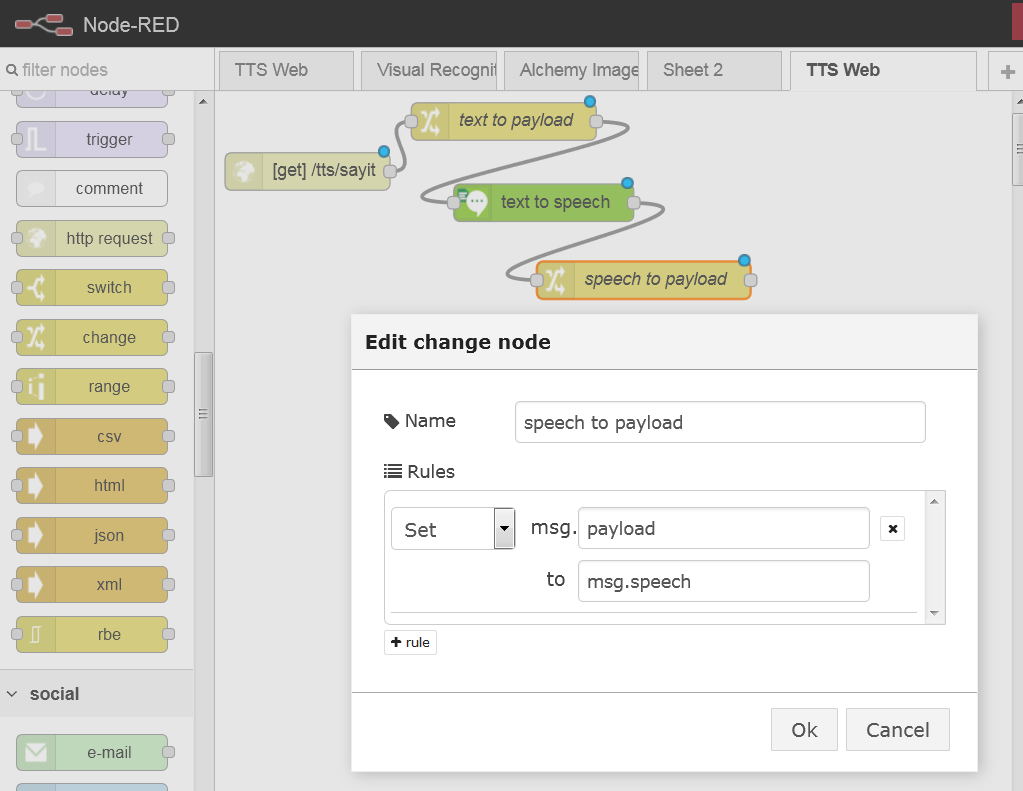
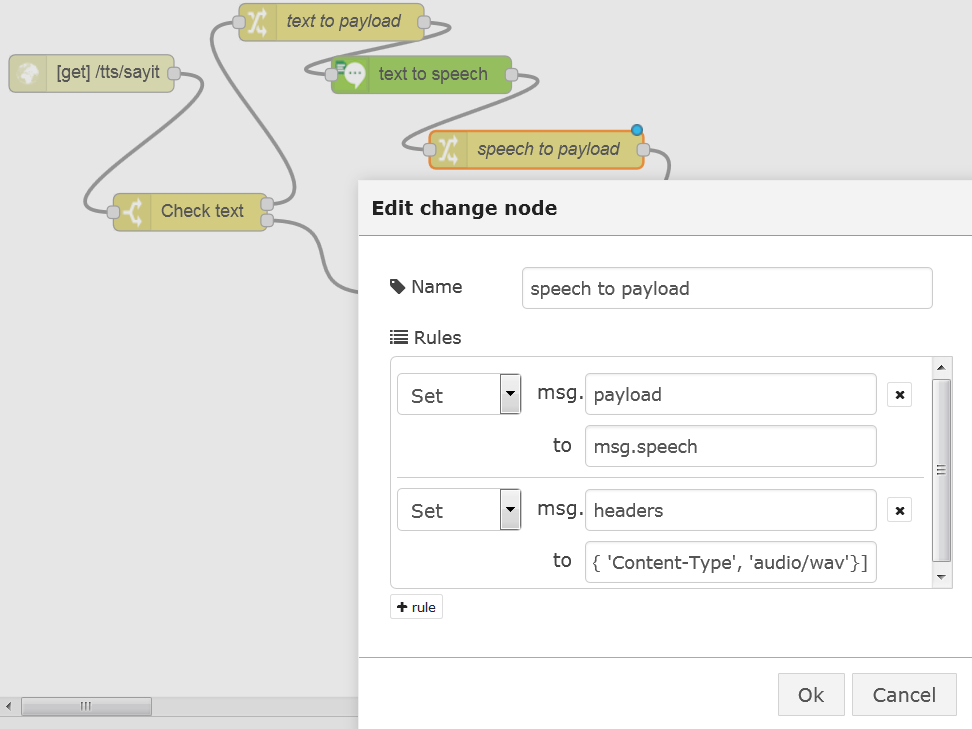
Moved HTTP header setting in main part of lab

diff --git a/README.md b/README.md
@@ -74,7 +74,7 @@ We do this because the TTS node uses the text in the `msg.payload` as input.
 ![TTS Lab 1 ScreenShot 3](images/TTS/TTS-Lab-3.png)
 
 The properties of the TTS node will let you select the Language and Voice to use.
-5. Add another ![`change`](images/node-red/change.png) node to extract the `msg.speech` and place it in `msg.payload`.
+5. Add another ![`change`](images/node-red/change.png) node to extract the `msg.speech` and place it in `msg.payload`. We will also set the `HTTP response headers` by setting the `msg.headers` to the literal string value `[{ 'Content-Type', 'audio/wav'}]`. This is required in order to let browsers know that this is an audio file and not HTML.
 ![TTS Lab 1 ScreenShot 4](images/TTS/TTS-Lab-4.png)
 6. Finally, add a  ![`HTTP Response`](images/node-red/HTTPResponse.png) node. This node will simply return what's in the payload to the HTTP response.
 The completed flow should look like:
@@ -92,19 +92,17 @@ _Now try the flow:_
 Depending on how your browser is configured, it may save it automatically or prompt for a name and location. In any case, store or rename it with the `.wav` extension on your local file system. 
 * Then locate that file from windows explorer and open it with Windows Media Player, turn your you should
 
-### TTS Flow - enhancements
-The flow as designed has a few caveats. First, if the `text_to_say` query parameter is not set, the flow will throw an error and not complete. Second, the mime type and name for the returned audio file has not been set explicitly, which may cause some browsers not to be able to play the audio file properly.
+### TTS Flow - enhancements: Input Parameter Checking
+This flow has a caveat, which is that the flow will fail when the `text_to_say` query parameter is not set.
 
-#### Input Parameter Checking
 So, we will introduce a `switch` node between the `[get]` and `change` nodes. This node will check if `msg.payload.text_to_say` is set, and otherwise divert to a `template` node that will simply set the payload to a error text.
 ![TTS Lab 1 ScreenShot X1](images/TTS/TTS-Lab-X1.png)
 You'll notice that adding the second `otherwise` rule has created a second output handle for the `switch` node, we'll connect this to a `template` node and then to the `HTML Response` node.
 ![TTS Lab 1 ScreenShot X2](images/TTS/TTS-Lab-X2.png)
 The template node simply outputs a HTML message in a h1 header.
 Flow for this can be found in [TTS-Lab-Basic](flows/TTS/TTS-Lab-Extension1.json)
-
-#### MIME type setting
-We will then want to add a MIME Type setting to the output audio file so that the browser will recognize the format and be able to play it directly.
-For this, we will use the `msg.headers` input to the `HTTP Response` node. Snce we already have a `change` node before the `HTTP Response`, we will simply add an additional rule that will set the `msg.header` to the value ``` [{ 'Content-Type', 'audio/wav'}, {'Content-Disposition', 'attachment; filename=text_to_say.Wav'}]```
+The final flow will look like:
 ![TTS Lab 1 ScreenShot X3](images/TTS/TTS-Lab-X3.png)
-Flow for this can be found in [TTS-Lab-Basic](flows/TTS/TTS-Lab-Extension2.json)
+
+#### TTS Interactive Web UI
+As an extension, we can build a flow that will present a dialog to the user with a prompt to enter the text to say, and return a HTML page with an <audio> tag which will play the generated audio.
